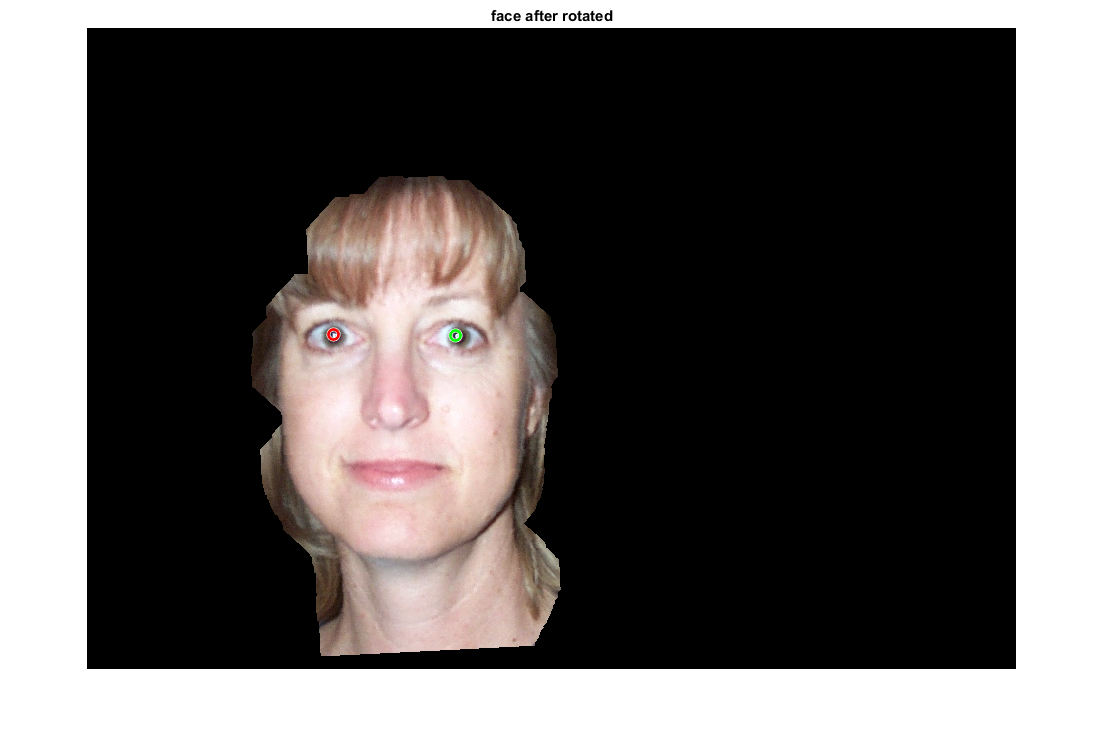
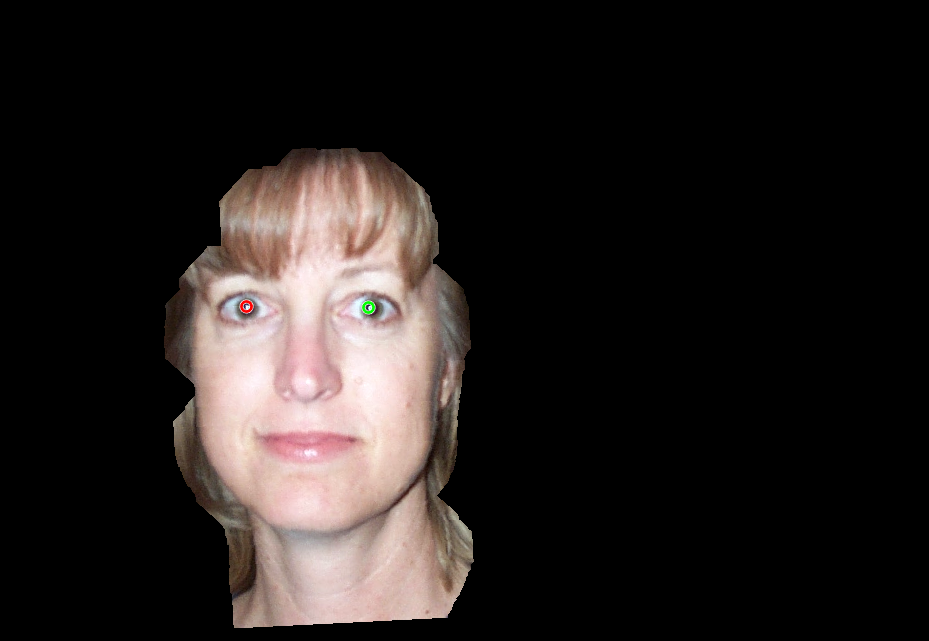
Tweak images

diff --git a/tex/methodFD.tex b/tex/methodFD.tex
@@ -20,7 +20,16 @@ estimatedSkinMask = and( & and(C_{b}> 95, \ C_{b} < 145), \\
 \subsubsection{Background mask}
 Next follows the computation of a mask for the background (Figure \ref{fig:faceMasks}\textit{c}), or in more particular, a mask containing large homogeneous regions of low frequency. This as we assume that a face contains a lot of high frequency parts while background regions, e.g. walls, often are homogeneous. To avoid that small regions in the face are selected for this mask we remove all regions with areas containing less than $5$ percent of the pixels of the image.
 
-The function takes the gray version of the input image as argument. Furthermore, we first increase the contrast of the image by using \textit{Matlab's} \textit{imadjust} function. Then we use edge filtering on the image with the \textit{Canny} kernel. This will highlight the edges of the image. We then perform some morphological operations that will implicitly threshold the image and deliver a binary mask containing blobs that represent each region. As previously mentioned before continuing any computation, we remove small blobs.
+The function takes the gray version of the input image as argument. Furthermore, we first increase the contrast of the image by using \textit{Matlab's} \textit{imadjust} function. Then we use edge filtering on the image with the \textit{Canny} kernel. This will highlight the edges of the image. We then perform some morphological operations that will implicitly threshold the image and deliver a binary mask containing blobs that represent each region, see Figure \ref{fig:AllBackgroundBlobs}. As previously mentioned before continuing any computation, we remove small blobs.
+
+\begin{figure}[H]
+\centering
+\includegraphics[width=0.4\textwidth]{img/fd2/AllBackgroundBlobs.png}
+\caption{Segmented image for determining the background mask.}
+\label{fig:AllBackgroundBlobs}
+\end{figure}
+
+
 
 Then we derive a gray scale image representing the amount of high frequencies in each region by performing a median filtering of the input image followed by a filtering with the \textit{Laplacian of Gaussian} kernel. The median filter will remove unwanted noise as we are only interested in those frequencies caused by the actual objects in our image. The LoG filter will first smooth the image a bit more by the Gaussian kernel before the Laplacian kernel is applied in order to give us the more important frequencies of the image. Given this computed image containing the high frequency information we can for each region blob calculate the percentage of high frequency. We conclude that if the high frequency part is less than $0.8$ percent, it is likely that this region of the image is part of the background and that we therefore can add this blob to the background mask.
 
@@ -71,8 +80,32 @@ We begin with dilating the contour of the face quite a lot. This as the hair lin
 
 \begin{figure}[H]
 \centering
-\includegraphics[width=0.16\textwidth]{img/fd2/output12.png}
-\caption{Output of the face detection phase given the input Figure \ref{fig:faceMasks}\textit{a}.}
-\label{fig:fdResult}
+
+\begin{subfigure}{.33\textwidth}
+  \centering
+  \includegraphics[width=0.95\textwidth]{img/fd2/BeforeRotated.png}
+  \caption{}
+\end{subfigure}%
+\begin{subfigure}{.33\textwidth}
+  \centering
+  \includegraphics[width=0.95\textwidth]{img/fd2/AfterRotated.png}
+  \caption{}
+\end{subfigure}%
+\begin{subfigure}{.33\textwidth}
+  \centering
+  \includegraphics[width=0.6\textwidth]{img/fd2/output12.png}
+  \caption{}
+\end{subfigure}%
+
+\caption{Aligning the eyes to the horizontal axis. (a) show the face image before correction of the rotation in the image plane is performed, (b) show the rotated version and (c) the final output.}
+\label{fig:rotationAndOutput}
 \end{figure}
+
+
+% \begin{figure}[H]
+% \centering
+% \includegraphics[width=0.16\textwidth]{img/fd2/output12.png}
+% \caption{Output of the face detection phase given the input Figure \ref{fig:faceMasks}\textit{a}.}
+% \label{fig:fdResult}
+% \end{figure}
 
